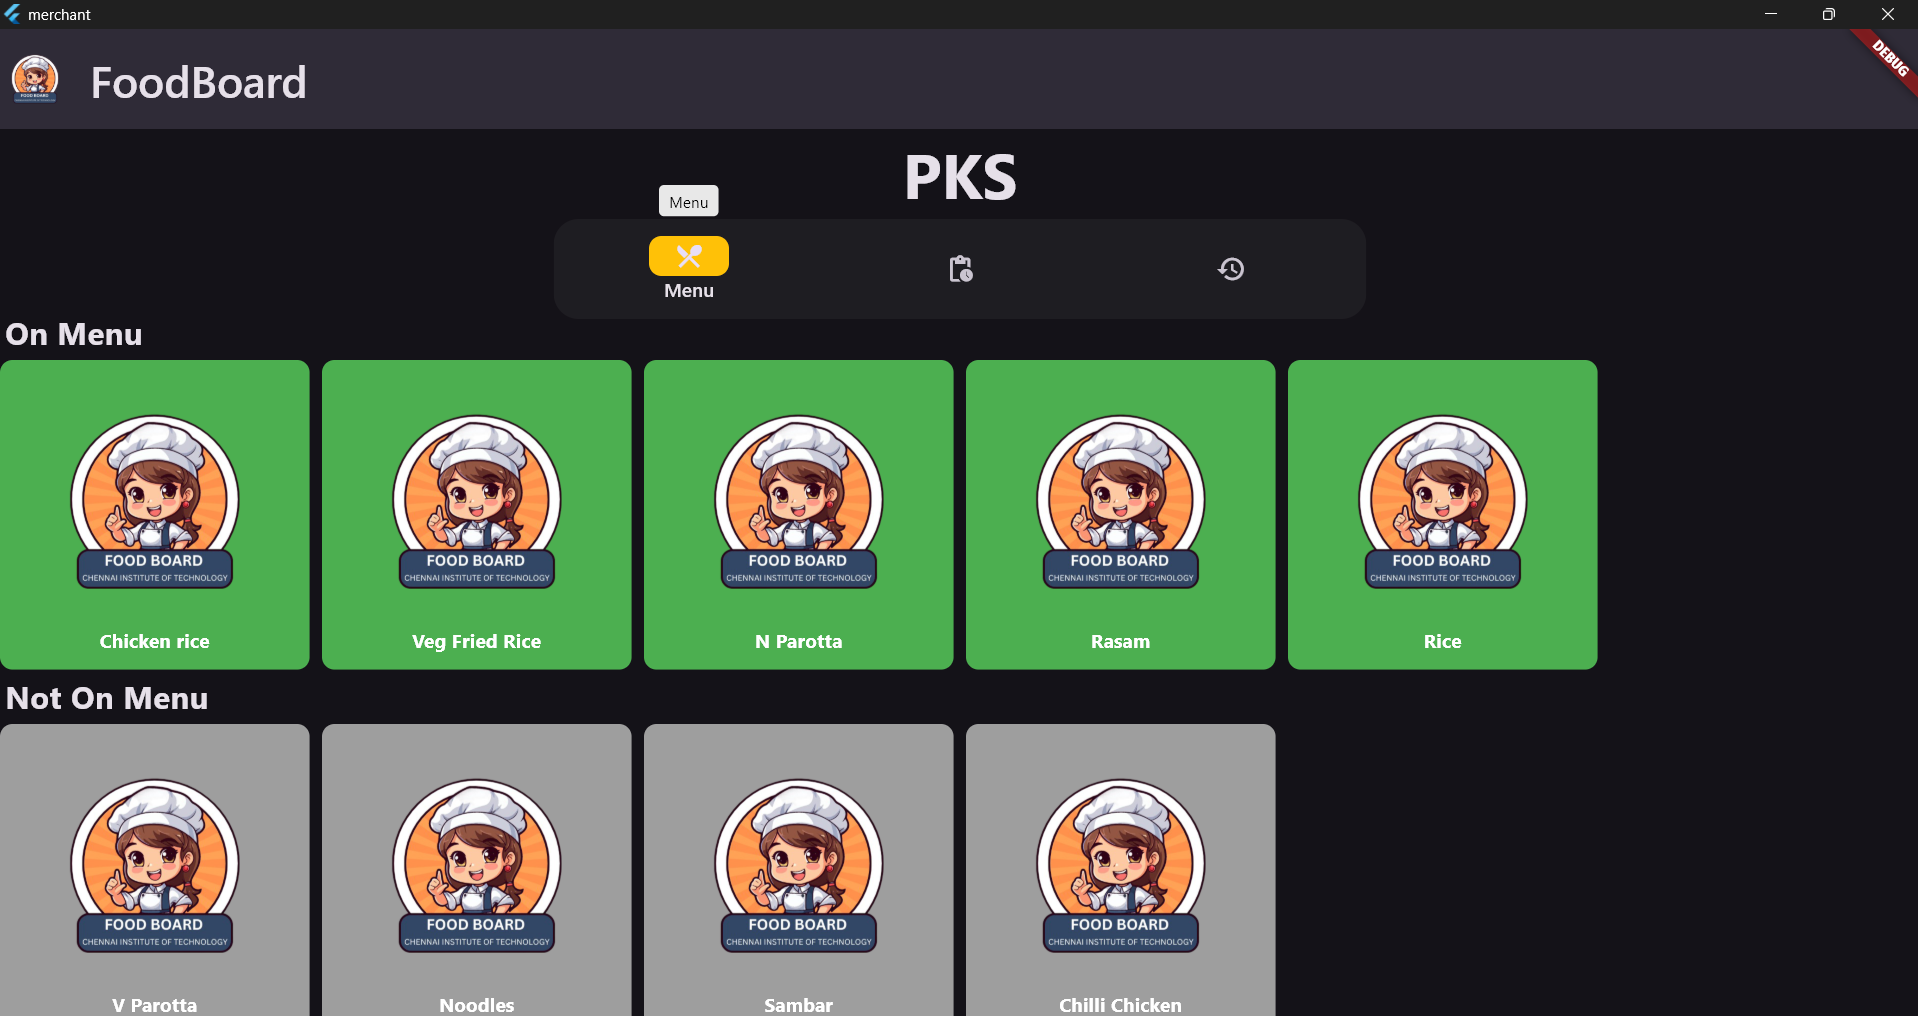
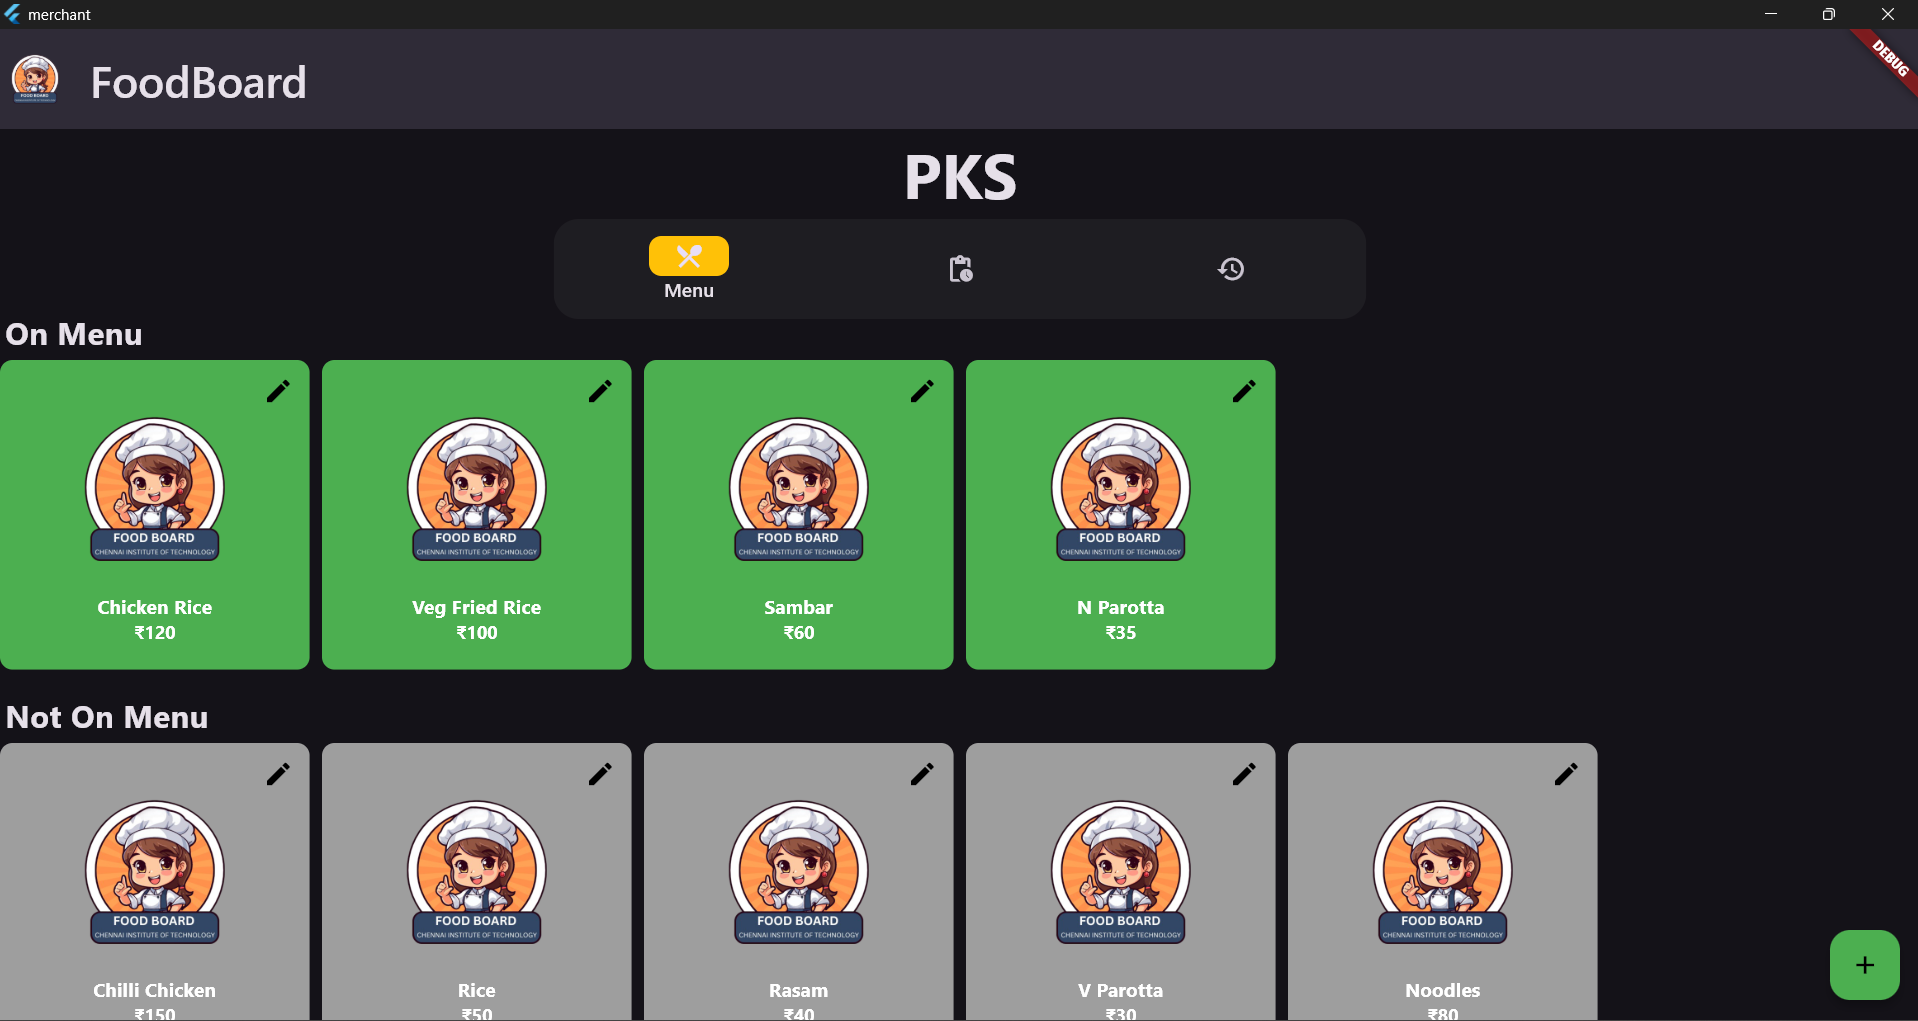
Made the Price Editor and Added New Item Adding feature(Needs Formatting)

diff --git a/lib/menupage.dart b/lib/menupage.dart
@@ -1,4 +1,5 @@
 import 'package:flutter/material.dart';
+import 'package:flutter/services.dart';
 
 class Menupage extends StatefulWidget {
   const Menupage({super.key});
@@ -8,20 +9,21 @@ class Menupage extends StatefulWidget {
 }
 
 class _MenupageState extends State<Menupage> {
-  Image icon = Image(image: AssetImage("assets/logo.png"), width: 300.00, height: 200.00);
+  Image icon = Image(image: AssetImage("assets/logo.png"), width: 250.00, height: 150.00);
 
-  Map<int, String> items = {
-    1: 'Chicken rice',
-    2: 'Veg Fried Rice',
-    3: 'Chilli Chicken',
-    4: 'Rice',
-    5: 'Rasam',
-    6: 'Sambar',
-    7: 'V Parotta',
-    8: 'N Parotta',
-    9: 'Noodles',
+  Map<int, Map<String, dynamic>> items = {
+    1: {'name': 'Chicken Rice', 'price': 120},
+    2: {'name': 'Veg Fried Rice', 'price': 100},
+    3: {'name': 'Chilli Chicken', 'price': 150},
+    4: {'name': 'Rice', 'price': 50},
+    5: {'name': 'Rasam', 'price': 40},
+    6: {'name': 'Sambar', 'price': 60},
+    7: {'name': 'V Parotta', 'price': 30},
+    8: {'name': 'N Parotta', 'price': 35},
+    9: {'name': 'Noodles', 'price': 80},
   };
 
+  int newitemid = 10;
   Set<int> onmenuid = {1, 2, 6, 8};
   Set<int> offmenuid = {3, 4, 5, 7, 9};
 
@@ -37,14 +39,135 @@ class _MenupageState extends State<Menupage> {
     });
   }
 
+  void changeRate(int itemId, String name) {
+    int newRate = 0;
+    TextEditingController controller = TextEditingController();
+    showDialog(
+      context: context,
+      builder: (BuildContext context) {
+        return AlertDialog(
+          title: Text("Change Rate of $name:", style: TextStyle(fontWeight: FontWeight.w700)),
+          content: Padding(
+            padding: EdgeInsets.all(10.00),
+            child: Form(
+              child: TextFormField(
+                controller: controller,
+                autofocus: true,
+                autocorrect: false,
+                keyboardType: TextInputType.number,
+                inputFormatters: [FilteringTextInputFormatter.digitsOnly],
+                decoration: InputDecoration(labelText: "New Price - ₹", labelStyle: TextStyle(fontSize:15.00), floatingLabelStyle: TextStyle(fontSize:20.00)),
+              ),
+            ),
+          ),
+        actions: [TextButton(
+                    style: ButtonStyle(
+                      backgroundColor: WidgetStatePropertyAll(Colors.black), 
+                      foregroundColor: WidgetStatePropertyAll(Colors.white),
+                      padding:WidgetStatePropertyAll(EdgeInsets.all(30.00)),
+                      fixedSize: WidgetStatePropertyAll(Size.fromWidth(132)),
+                      overlayColor: WidgetStatePropertyAll(const Color.fromARGB(255, 37, 113, 255))),
+                    onPressed: () {
+                      if (controller.text.isEmpty) {
+                        ScaffoldMessenger.of(context).showSnackBar(
+                          SnackBar(
+                            content: Text("Error: Price Cannot be Empty",style: TextStyle(fontSize: 15.00, color:Colors.black, fontWeight: FontWeight.w700),),
+                            backgroundColor: Colors.redAccent,
+                          ),
+                        );
+                      }
+                      newRate = int.parse(controller.text);
+                      if (newRate == 0) {
+                        ScaffoldMessenger.of(context).showSnackBar(
+                          SnackBar(
+                            content: Text("Error: Price Cannot be Changed to 0", style: TextStyle(fontSize: 15.00, color:Colors.black, fontWeight: FontWeight.w700),),
+                            backgroundColor: Colors.redAccent,
+                          ),
+                        );
+                      } else {
+                        setState(() {
+                          items[itemId] = {
+                            'name' : items[itemId]?['name'],
+                            'price' : newRate,
+                      };});
+                      }
+                      Navigator.pop(context);
+                    },
+                    child: Row(spacing: 5.00,children:[Icon(Icons.check,color:Colors.greenAccent),Text("Submit", style:TextStyle(fontWeight: FontWeight.w600))],),
+                  ),],);
+      },
+    );
+  }
+
+  void addNewItem(){
+    showDialog(context: context, builder: (BuildContext context){
+      TextEditingController controller1 = TextEditingController();
+      TextEditingController controller2 = TextEditingController();
+      return AlertDialog(
+        title: Text("Add new Item: ",style: TextStyle(fontWeight: FontWeight.w700)),
+        content: Form(
+          child: Column(
+            children: [TextFormField(
+              controller: controller1,
+              autocorrect: false,
+              textCapitalization: TextCapitalization.words,
+              decoration: InputDecoration(labelText: "Name", labelStyle: TextStyle(fontSize:15.00), floatingLabelStyle: TextStyle(fontSize:20.00)),
+            ),
+            TextFormField(
+              controller: controller2,
+              autocorrect: false,
+              keyboardType: TextInputType.number,
+              inputFormatters: [FilteringTextInputFormatter.digitsOnly],
+              decoration: InputDecoration(labelText: "Price", labelStyle: TextStyle(fontSize:15.00), floatingLabelStyle: TextStyle(fontSize:20.00)),
+            ),
+            ]),
+            ),
+      actions:[TextButton(
+                    style: ButtonStyle(
+                      backgroundColor: WidgetStatePropertyAll(Colors.black), 
+                      foregroundColor: WidgetStatePropertyAll(Colors.white),
+                      padding:WidgetStatePropertyAll(EdgeInsets.all(30.00)),
+                      fixedSize: WidgetStatePropertyAll(Size.fromWidth(132)),
+                      overlayColor: WidgetStatePropertyAll(const Color.fromARGB(255, 37, 113, 255))),
+                    onPressed: () {
+                      if (controller1.text == "" || int.parse(controller2.text) == 0){
+                        ScaffoldMessenger.of(context).showSnackBar(
+                          SnackBar(content: Text("Error - Don't feed Empty Values", style: TextStyle(fontSize: 15.00, color:Colors.black, fontWeight: FontWeight.w700),),
+                            backgroundColor: Colors.redAccent));
+                      }
+                      setState(() {
+                        items[newitemid] = { 
+                          'name': controller1.text,
+                          'price': int.parse(controller2.text)
+                          };
+                        onmenuid.add(newitemid);
+                        newitemid++;
+                        Navigator.pop(context);
+                      });
+                    },
+                    child: Row(spacing: 5.00,children:[Icon(Icons.check,color:Colors.greenAccent),Text("Submit", style:TextStyle(fontWeight: FontWeight.w600))],),
+                  )
+      ]
+      );
+    });
+  }
+
   @override
   Widget build(BuildContext context) {
     return Scaffold(
+      floatingActionButton:FloatingActionButton(
+        backgroundColor: Colors.green,
+          child:Icon(Icons.add,color: Colors.black,),
+          onPressed: (){
+              addNewItem();
+          }),
       body: SingleChildScrollView(
         child: Column(
           crossAxisAlignment: CrossAxisAlignment.start,
           children: [
+            SizedBox(height:10.00),
             buildGridSection("On Menu", onmenuid, Colors.green),
+            SizedBox(height:15.00),
             buildGridSection("Not On Menu", offmenuid, Colors.grey),
           ],
         ),
@@ -72,24 +195,48 @@ class _MenupageState extends State<Menupage> {
           itemCount: menuSet.length,
           itemBuilder: (BuildContext context, int index) {
             int itemId = menuSet.elementAt(index);
-            return GestureDetector(
-              onTap: () => toggleItem(itemId),
-              child: Container(
-                decoration: BoxDecoration(
-                  color: bgColor,
-                  borderRadius: BorderRadius.circular(10),
-                ),
-                child: Column(
-                  mainAxisAlignment: MainAxisAlignment.center,
-                  children: [
-                    icon,
-                    Text(
-                      items[itemId] ?? "Unknown Item",
-                      textAlign: TextAlign.center,
-                      style: const TextStyle(fontSize: 15,fontWeight: FontWeight.bold, color: Colors.white),
+            return GridTile(
+              child: Stack(
+                children: [
+                  MouseRegion(
+                    cursor: SystemMouseCursors.click,
+                    child: GestureDetector(
+                      onTap: () => toggleItem(itemId),
+                      child: Container(
+                        decoration: BoxDecoration(
+                          color: bgColor,
+                          borderRadius: BorderRadius.circular(10),
+                        ),
+                        child: Column(
+                          mainAxisAlignment: MainAxisAlignment.center,
+                          children: [
+                            AspectRatio(aspectRatio: 1.5, child:icon),
+                            Text(
+                              items[itemId]?['name'] ?? "Unknown Item",
+                              textAlign: TextAlign.center,
+                              style: const TextStyle(fontSize: 15, fontWeight: FontWeight.bold, color: Colors.white),
+                            ),
+                            Text(
+                              "₹${items[itemId]?['price'] ?? 'N/A'}",
+                              style: TextStyle(fontWeight: FontWeight.bold, color: Colors.white),
+                            ),
+                          ],
+                        ),
+                      ),
                     ),
-                  ],
-                ),
+                  ),
+                  Positioned(
+                    right: 5,
+                    top: 5,
+                    child: IconButton(
+                      hoverColor: Colors.blue,
+                      icon: Icon(Icons.edit, color: Colors.black),
+                      onPressed: () {
+                        changeRate(itemId, items[itemId]?['name']);
+                      },
+                    ),
+                  ),
+                ],
               ),
             );
           },

diff --git a/lib/main.dart b/lib/main.dart
@@ -1,7 +1,13 @@
+import 'dart:io';
+import 'package:window_size/window_size.dart';
 import 'package:flutter/material.dart';
 import 'package:merchant/menupage.dart';
 
-void main() {
+void main(){
+  if (Platform.isWindows || Platform.isLinux || Platform.isMacOS) {
+  WidgetsFlutterBinding.ensureInitialized();
+    setWindowMinSize(const Size(1025,1025));
+  }
   runApp(MaterialApp(
     theme:ThemeData.dark(),
     home:HomePage()));

diff --git a/macos/Flutter/GeneratedPluginRegistrant.swift b/macos/Flutter/GeneratedPluginRegistrant.swift
@@ -6,7 +6,9 @@ import FlutterMacOS
 import Foundation
 
 import desktop_window
+import window_size
 
 func RegisterGeneratedPlugins(registry: FlutterPluginRegistry) {
   DesktopWindowPlugin.register(with: registry.registrar(forPlugin: "DesktopWindowPlugin"))
+  WindowSizePlugin.register(with: registry.registrar(forPlugin: "WindowSizePlugin"))
 }

diff --git a/linux/flutter/generated_plugin_registrant.cc b/linux/flutter/generated_plugin_registrant.cc
@@ -7,9 +7,13 @@
 #include "generated_plugin_registrant.h"
 
 #include <desktop_window/desktop_window_plugin.h>
+#include <window_size/window_size_plugin.h>
 
 void fl_register_plugins(FlPluginRegistry* registry) {
   g_autoptr(FlPluginRegistrar) desktop_window_registrar =
       fl_plugin_registry_get_registrar_for_plugin(registry, "DesktopWindowPlugin");
   desktop_window_plugin_register_with_registrar(desktop_window_registrar);
+  g_autoptr(FlPluginRegistrar) window_size_registrar =
+      fl_plugin_registry_get_registrar_for_plugin(registry, "WindowSizePlugin");
+  window_size_plugin_register_with_registrar(window_size_registrar);
 }

diff --git a/windows/flutter/generated_plugin_registrant.cc b/windows/flutter/generated_plugin_registrant.cc
@@ -7,8 +7,11 @@
 #include "generated_plugin_registrant.h"
 
 #include <desktop_window/desktop_window_plugin.h>
+#include <window_size/window_size_plugin.h>
 
 void RegisterPlugins(flutter::PluginRegistry* registry) {
   DesktopWindowPluginRegisterWithRegistrar(
       registry->GetRegistrarForPlugin("DesktopWindowPlugin"));
+  WindowSizePluginRegisterWithRegistrar(
+      registry->GetRegistrarForPlugin("WindowSizePlugin"));
 }

diff --git a/README.md b/README.md
@@ -2,8 +2,20 @@
 
 Current Status:
 
+1. Added Price Editor:
 ![alt text](image.png)
 
+When Clicked the edit icon:
+![alt text](image-1.png)
+
+When Changed to 80:
+![alt text](image-2.png)
+
+2. Creating New Item(Needs Formatting)
+![alt text](image-3.png)
+
+Added new Item will be directly added on menu
+![alt text](image-4.png)
 ## Getting Started
 
 This project is a starting point for a Flutter application.
